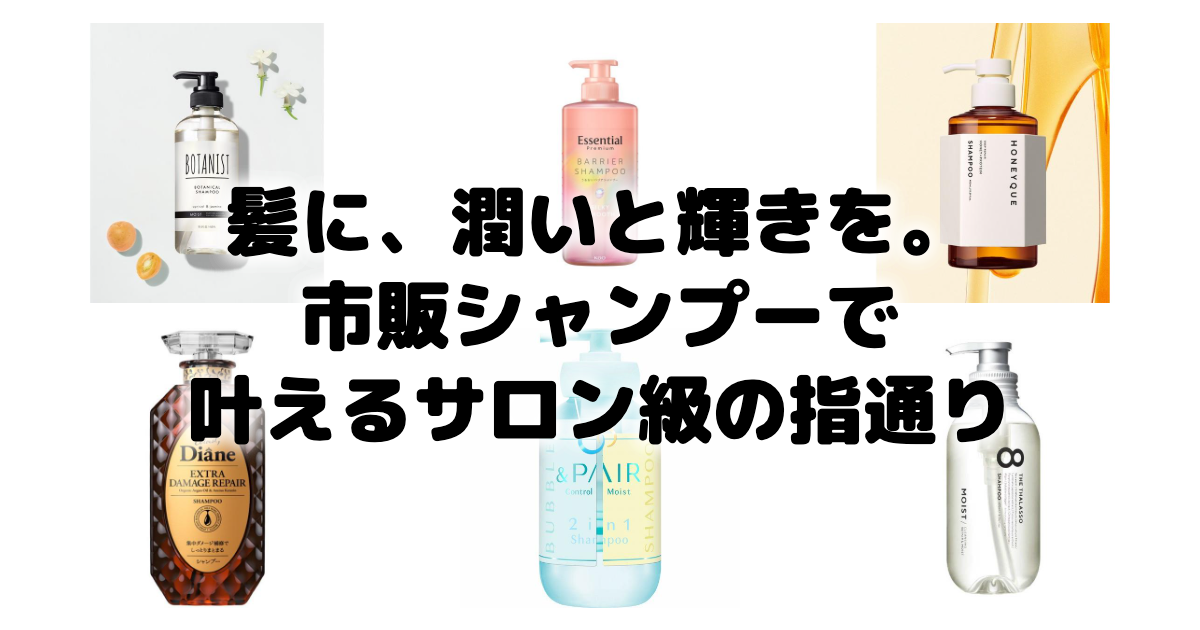
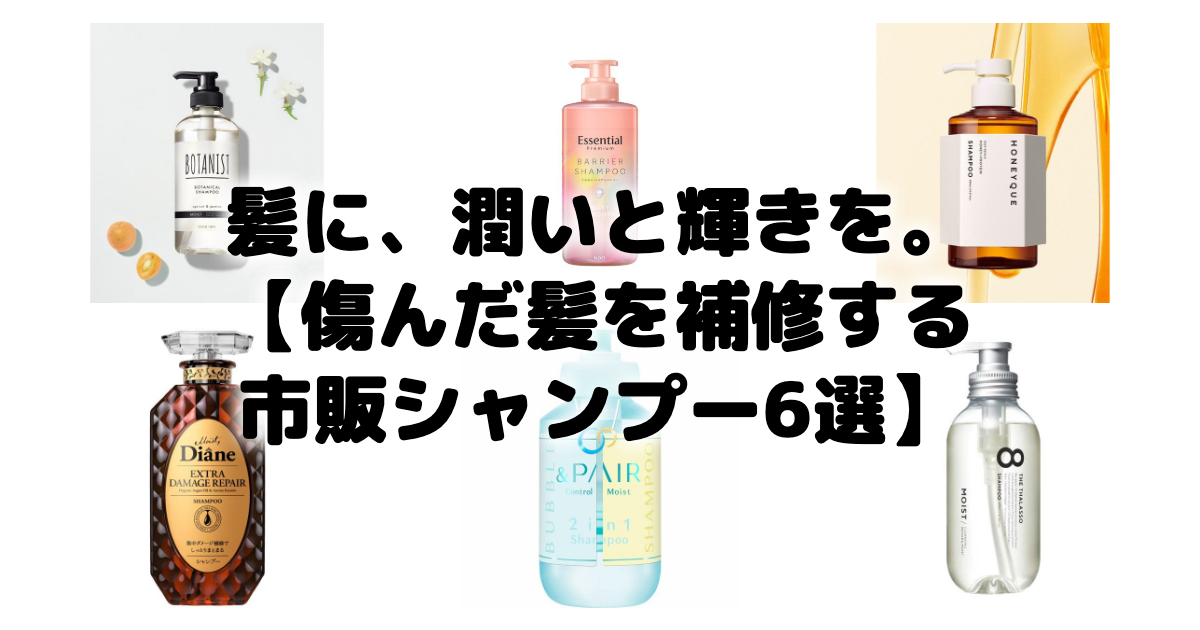
Fix eyecatch title: use actual article title per GENERATION_RULES.md (removed custom made-up subtitle)

Changed region(s): [[0.1233, 0.4222, 0.8633, 0.7238], [0.1542, 0.2413, 0.185, 0.2714]]

diff --git a/public/eyecatch/20260526-best-shampoos-for-damaged-hair.html b/public/eyecatch/20260526-best-shampoos-for-damaged-hair.html
@@ -16,5 +16,5 @@ body { font-family: 'M PLUS Rounded 1c', sans-serif; display: flex; align-items:
 <div class="pw"><img src="https://item-shopping.c.yimg.jp/i/l/fujiyaku_4589546899478" class="pi" alt="" loading="eager" /></div>
 <div class="pw"><img src="https://item-shopping.c.yimg.jp/i/l/y-kojima_4589919568833" class="pi" alt="" loading="eager" /></div>
 </div>
-<div class="to"><h1 class="ti">髪に、潤いと輝きを。市販シャンプーで<br />叶えるサロン級の指通り</h1></div>
+<div class="to"><h1 class="ti">髪に、潤いと輝きを。【傷んだ髪を補修する<br />市販シャンプー6選】</h1></div>
 </body></html>
